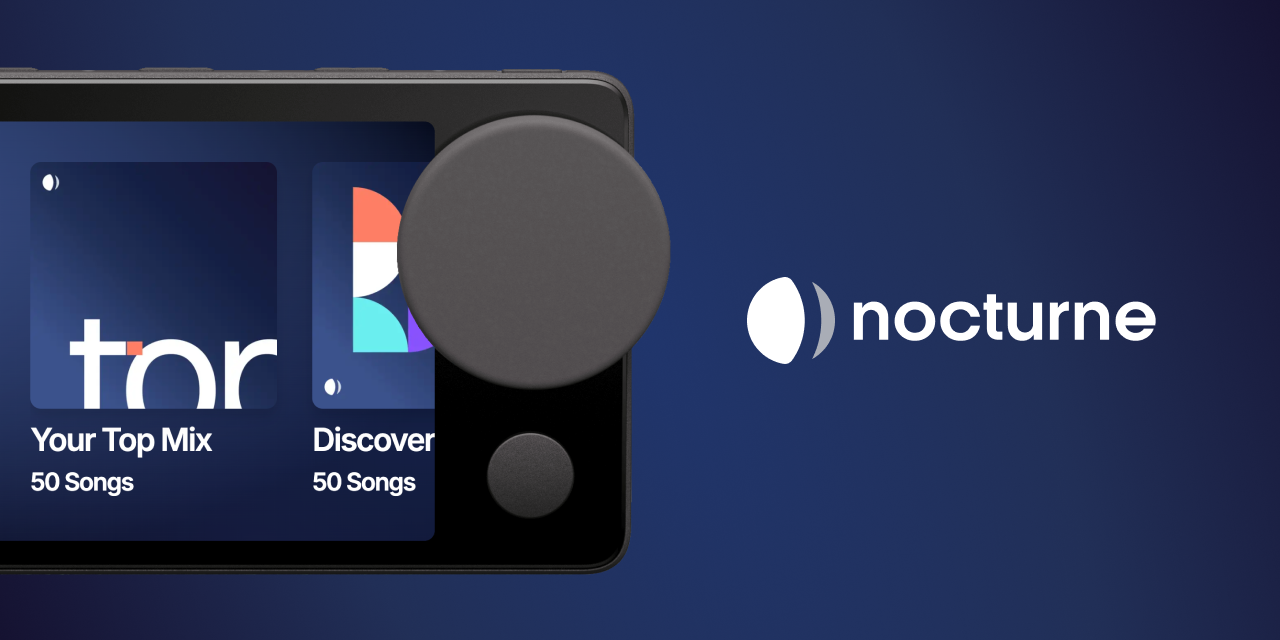
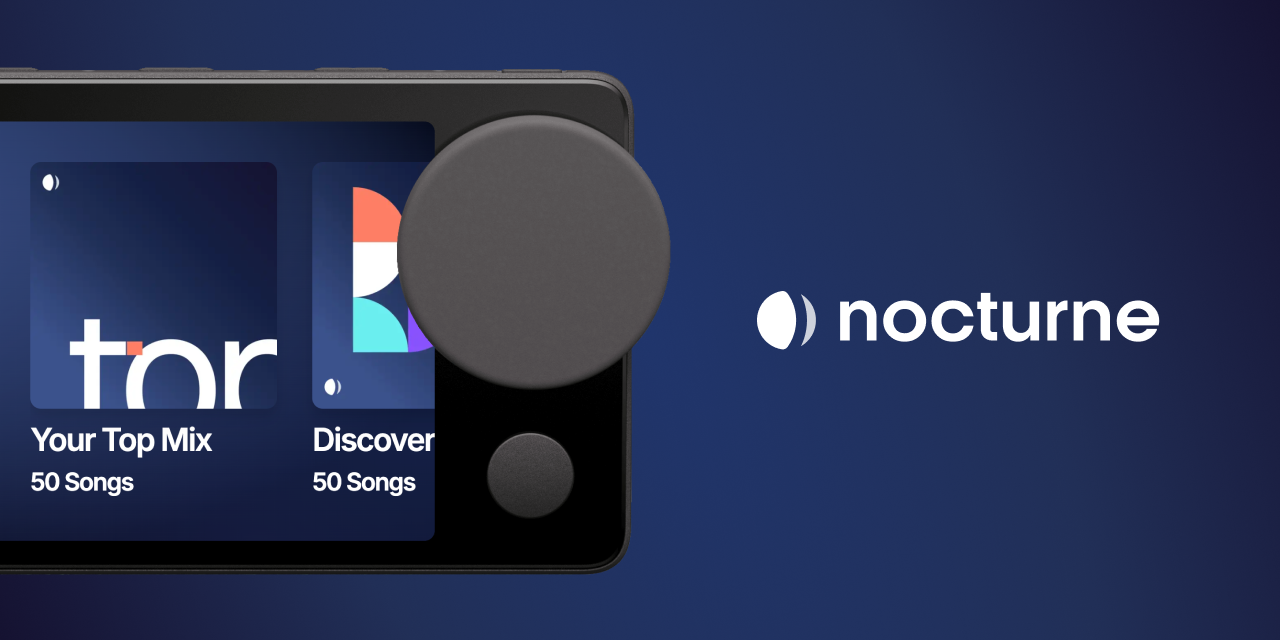
fix: use current assets
resolves #4

Changed region(s): [[0.5625, 0.4375, 0.9062, 0.5625]]

diff --git a/src/components/logo.tsx b/src/components/logo.tsx
@@ -3,24 +3,24 @@
 export function Logo({ className }: { className?: string }) {
   return (
     <svg
-      width="127"
-      height="34"
-      viewBox="0 0 1924 377"
+      width="165"
+      height="24"
+      viewBox="0 0 165 24"
       fill="none"
       xmlns="http://www.w3.org/2000/svg"
       className={className}
     >
       <path
-        d="M531.6 191.6V293H489V119.299H528.3V144.2H528.9C533.9 134.999 541 127.7 550.2 122.3C559.6 116.9 570.4 114.2 582.6 114.2C602.6 114.2 618.8 121.1 631.2 134.9C643.8 148.3 650.1 166 650.1 188V293H607.5V191.6C607.5 181 603.8 172 596.4 164.6C588.8 157 579.9 153.2 569.7 153.2C559.3 153.2 550.3 157 542.7 164.6C535.3 172 531.6 181 531.6 191.6ZM825.968 206C825.968 190 821.368 177.1 812.168 167.3C802.968 157.1 790.668 152 775.268 152C759.868 152 747.568 157.1 738.368 167.3C729.168 177.3 724.568 190.2 724.568 206C724.568 222 729.168 235 738.368 245C747.568 255.2 759.868 260.3 775.268 260.3C790.668 260.3 802.968 255.3 812.168 245.3C821.368 235.3 825.968 222.2 825.968 206ZM870.368 206C870.368 232 861.168 253.9 842.768 271.7C824.568 289.3 802.068 298.1 775.268 298.1C748.668 298.1 726.168 289.3 707.768 271.7C689.368 253.9 680.168 232 680.168 206C680.168 180.2 689.368 158.4 707.768 140.6C726.168 123 748.668 114.2 775.268 114.2C802.068 114.2 824.568 123 842.768 140.6C861.168 158.4 870.368 180.2 870.368 206ZM1080.33 185.3H1036.83C1032.43 174.7 1026.23 166.3 1018.23 160.1C1010.23 153.9 1000.63 150.8 989.428 150.8C973.828 150.8 961.428 156 952.228 166.4C943.028 176.8 938.428 190 938.428 206C938.428 222 943.028 235.2 952.228 245.6C961.428 256 973.828 261.2 989.428 261.2C1000.63 261.2 1010.23 258.1 1018.23 251.9C1026.23 245.7 1032.43 237.3 1036.83 226.7H1080.33C1076.13 249.1 1066.03 266.6 1050.03 279.2C1034.23 291.8 1014.03 298.1 989.428 298.1C961.628 298.1 938.828 289.4 921.028 272C903.228 254.6 894.328 232.6 894.328 206C894.328 179.4 903.228 157.4 921.028 139.999C938.828 122.6 961.628 113.9 989.428 113.9C1014.03 113.9 1034.23 120.2 1050.03 132.799C1065.83 145.4 1075.93 162.9 1080.33 185.3ZM1112.86 241.7V152.3H1096.96V119.299H1112.86V79.9995H1155.46V119.299H1185.16V152.3H1155.46V244.7C1155.46 247.7 1156.46 250.2 1158.46 252.2C1160.46 254.2 1162.86 255.2 1165.66 255.2H1185.16V293H1165.66C1149.86 293 1137.06 288.4 1127.26 279.2C1117.66 269.8 1112.86 257.3 1112.86 241.7ZM1329.08 220.7V119.299H1371.68V293H1332.38V268.1H1331.78C1326.78 277.3 1319.58 284.6 1310.18 290C1300.98 295.4 1290.28 298.1 1278.08 298.1C1258.08 298.1 1241.78 291.3 1229.18 277.7C1216.78 263.7 1210.58 245.9 1210.58 224.3V119.299H1253.18V220.7C1253.18 231.5 1256.88 240.6 1264.28 248C1271.68 255.4 1280.58 259.1 1290.98 259.1C1301.58 259.1 1310.58 255.4 1317.98 248C1325.38 240.6 1329.08 231.5 1329.08 220.7ZM1448.85 293H1407.75V119.299H1445.55V143.3H1446.15C1457.55 123.9 1473.35 114.2 1493.55 114.2H1497.15V157.4H1487.25C1477.05 157.4 1468.25 160.9 1460.85 167.9C1453.65 174.7 1449.65 183.2 1448.85 193.4V293ZM1567.24 191.6V293H1524.64V119.299H1563.94V144.2H1564.54C1569.54 134.999 1576.64 127.7 1585.84 122.3C1595.24 116.9 1606.04 114.2 1618.24 114.2C1638.24 114.2 1654.44 121.1 1666.84 134.9C1679.44 148.3 1685.74 166 1685.74 188V293H1643.14V191.6C1643.14 181 1639.44 172 1632.04 164.6C1624.44 157 1615.54 153.2 1605.34 153.2C1594.94 153.2 1585.94 157 1578.34 164.6C1570.94 172 1567.24 181 1567.24 191.6ZM1903.91 206C1903.91 211.6 1903.11 218.1 1901.51 225.5H1761.41C1763.81 235.3 1769.51 243.7 1778.51 250.7C1787.91 257.7 1798.41 261.2 1810.01 261.2C1818.21 261.2 1825.81 259.3 1832.81 255.5C1839.81 251.7 1845.21 246.8 1849.01 240.8H1895.21C1889.01 258.2 1878.11 272.1 1862.51 282.5C1847.11 292.9 1829.61 298.1 1810.01 298.1C1783.61 298.1 1761.31 289.3 1743.11 271.7C1724.91 254.1 1715.81 232.2 1715.81 206C1715.81 180.2 1725.01 158.4 1743.41 140.6C1761.61 123 1784.01 114.2 1810.61 114.2C1836.21 114.2 1858.21 123.1 1876.61 140.9C1894.81 158.5 1903.91 180.2 1903.91 206ZM1762.01 188.6H1858.31C1855.91 177.4 1850.41 168.2 1841.81 161C1833.41 153.8 1823.01 150.2 1810.61 150.2C1798.21 150.2 1787.61 153.9 1778.81 161.3C1770.01 168.5 1764.41 177.6 1762.01 188.6Z"
+        d="M38.0526 11.0033V20.3159H34.1118V4.36323H37.7473V6.65006H37.8028C38.2655 5.80511 38.922 5.13469 39.7732 4.63875C40.6426 4.14281 41.6417 3.89485 42.7704 3.89485C44.6207 3.89485 46.1193 4.52854 47.2662 5.79594C48.4318 7.02657 49.0146 8.65215 49.0146 10.6727V20.3159H45.0738V11.0033C45.0738 10.0298 44.7317 9.20319 44.047 8.5236C43.3441 7.82558 42.5206 7.47662 41.5771 7.47662C40.6149 7.47662 39.7823 7.82558 39.0794 8.5236C38.3947 9.20319 38.0526 10.0298 38.0526 11.0033ZM65.2837 12.3258C65.2837 10.8563 64.8578 9.67157 64.0071 8.77157C63.1559 7.8348 62.018 7.36641 60.5936 7.36641C59.1687 7.36641 58.0309 7.8348 57.1801 8.77157C56.3289 9.68996 55.9035 10.8747 55.9035 12.3258C55.9035 13.7952 56.3289 14.9891 57.1801 15.9076C58.0309 16.8443 59.1687 17.3127 60.5936 17.3127C62.018 17.3127 63.1559 16.8535 64.0071 15.9351C64.8578 15.0167 65.2837 13.8136 65.2837 12.3258ZM69.3909 12.3258C69.3909 14.7136 68.5397 16.7249 66.8378 18.3597C65.154 19.9761 63.0726 20.7843 60.5936 20.7843C58.1328 20.7843 56.0514 19.9761 54.349 18.3597C52.647 16.7249 51.7963 14.7136 51.7963 12.3258C51.7963 9.95631 52.647 7.95417 54.349 6.31943C56.0514 4.70303 58.1328 3.89485 60.5936 3.89485C63.0726 3.89485 65.154 4.70303 66.8378 6.31943C68.5397 7.95417 69.3909 9.95631 69.3909 12.3258ZM88.8133 10.4247H84.7893C84.3821 9.45116 83.8089 8.6797 83.0687 8.11032C82.3285 7.54089 81.4404 7.2562 80.4045 7.2562C78.9614 7.2562 77.8145 7.73376 76.9633 8.68891C76.1121 9.64402 75.6867 10.8563 75.6867 12.3258C75.6867 13.7952 76.1121 15.0075 76.9633 15.9627C77.8145 16.9178 78.9614 17.3954 80.4045 17.3954C81.4404 17.3954 82.3285 17.1106 83.0687 16.5413C83.8089 15.9718 84.3821 15.2004 84.7893 14.2269H88.8133C88.4248 16.2841 87.4903 17.8913 86.0104 19.0485C84.5486 20.2057 82.6802 20.7843 80.4045 20.7843C77.8327 20.7843 75.7236 19.9853 74.0771 18.3872C72.4306 16.7892 71.6072 14.7687 71.6072 12.3258C71.6072 9.88282 72.4306 7.86235 74.0771 6.26433C75.7236 4.6663 77.8327 3.86729 80.4045 3.86729C82.6802 3.86729 84.5486 4.44589 86.0104 5.60308C87.4721 6.76026 88.4062 8.36746 88.8133 10.4247ZM91.8227 15.6045V7.39396H90.3518V4.36323H91.8227V0.753906H95.7634V4.36323H98.5109V7.39396H95.7634V15.88C95.7634 16.1555 95.8558 16.3851 96.041 16.5688C96.2257 16.7525 96.4477 16.8443 96.707 16.8443H98.5109V20.3159H96.707C95.2453 20.3159 94.061 19.8934 93.1548 19.0485C92.2667 18.1852 91.8227 17.0372 91.8227 15.6045ZM111.825 13.6758V4.36323H115.766V20.3159H112.13V18.0291H112.075C111.612 18.874 110.946 19.5444 110.076 20.0404C109.225 20.5363 108.235 20.7843 107.107 20.7843C105.257 20.7843 103.749 20.1598 102.583 18.9107C101.436 17.625 100.863 15.9902 100.863 14.0065V4.36323H104.804V13.6758C104.804 14.6677 105.146 15.5034 105.83 16.1831C106.515 16.8627 107.338 17.2025 108.3 17.2025C109.281 17.2025 110.113 16.8627 110.798 16.1831C111.482 15.5034 111.825 14.6677 111.825 13.6758ZM122.904 20.3159H119.102V4.36323H122.599V6.5674H122.654C123.709 4.78568 125.17 3.89485 127.039 3.89485H127.372V7.86235H126.456C125.513 7.86235 124.699 8.18376 124.014 8.82667C123.348 9.45116 122.978 10.2318 122.904 11.1686V20.3159ZM133.856 11.0033V20.3159H129.916V4.36323H133.551V6.65006H133.607C134.069 5.80511 134.726 5.13469 135.577 4.63875C136.446 4.14281 137.445 3.89485 138.574 3.89485C140.424 3.89485 141.923 4.52854 143.07 5.79594C144.236 7.02657 144.818 8.65215 144.818 10.6727V20.3159H140.878V11.0033C140.878 10.0298 140.535 9.20319 139.851 8.5236C139.147 7.82558 138.324 7.47662 137.381 7.47662C136.419 7.47662 135.586 7.82558 134.883 8.5236C134.198 9.20319 133.856 10.0298 133.856 11.0033ZM165 12.3258C165 12.8401 164.926 13.437 164.778 14.1167H151.818C152.04 15.0167 152.567 15.7881 153.4 16.431C154.269 17.0739 155.24 17.3954 156.314 17.3954C157.072 17.3954 157.775 17.2208 158.423 16.8719C159.07 16.5229 159.57 16.0729 159.921 15.5218H164.195C163.621 17.1199 162.613 18.3964 161.17 19.3516C159.746 20.3067 158.127 20.7843 156.314 20.7843C153.871 20.7843 151.809 19.9761 150.125 18.3597C148.441 16.7433 147.6 14.732 147.6 12.3258C147.6 9.95631 148.451 7.95417 150.153 6.31943C151.836 4.70303 153.908 3.89485 156.369 3.89485C158.737 3.89485 160.773 4.7122 162.475 6.34698C164.158 7.96334 165 9.95631 165 12.3258ZM151.873 10.7278H160.782C160.56 9.69912 160.051 8.85422 159.255 8.19297C158.478 7.53172 157.516 7.2011 156.369 7.2011C155.222 7.2011 154.241 7.54089 153.427 8.22053C152.614 8.88178 152.095 9.71751 151.873 10.7278Z"
         fill="white"
       />
       <path
         opacity="0.8"
-        d="M281.378 20.7666C307.013 71.0277 321.468 127.942 321.468 188.233C321.468 248.524 307.012 305.439 281.377 355.7C340.72 323.429 381 260.535 381 188.233C381 115.932 340.721 53.0379 281.378 20.7666Z"
-        fill="#CBCBCB"
+        d="M18.022 1.32031C19.6055 4.51953 20.4985 8.14223 20.4985 11.9798C20.4985 15.8175 19.6055 19.4402 18.022 22.6394C21.6878 20.5853 24.1759 16.582 24.1759 11.9799C24.1759 7.37774 21.6878 3.37443 18.022 1.32031Z"
+        fill="#FAFAFA"
       />
       <path
-        d="M195.716 16.7716C187.1 4.5653 172.421 -2.0085 157.7 0.546205C68.1198 16.092 0 94.2073 0 188.233C0 282.258 68.1194 360.373 157.699 375.919C172.42 378.474 187.099 371.9 195.715 359.694C229.931 311.223 250.031 252.075 250.031 188.232C250.031 124.39 229.932 65.2424 195.716 16.7716Z"
+        d="M12.559 1.06727C12.006 0.290514 11.0641 -0.127812 10.1195 0.0347581C4.37119 1.02402 0 5.99493 0 11.9783C0 17.9616 4.37117 22.9325 10.1195 23.9218C11.0641 24.0844 12.006 23.666 12.5589 22.8893C14.7545 19.8048 16.0443 16.0409 16.0443 11.9782C16.0443 7.91561 14.7546 4.15173 12.559 1.06727Z"
         fill="white"
       />
     </svg>
@@ -30,24 +30,24 @@ export function Logo({ className }: { className?: string }) {
 export function LogoDark({ className }: { className?: string }) {
   return (
     <svg
-      width="127"
-      height="34"
-      viewBox="0 0 1924 377"
+      width="165"
+      height="24"
+      viewBox="0 0 165 24"
       fill="none"
       xmlns="http://www.w3.org/2000/svg"
       className={className}
     >
       <path
-        d="M531.6 191.6V293H489V119.299H528.3V144.2H528.9C533.9 134.999 541 127.7 550.2 122.3C559.6 116.9 570.4 114.2 582.6 114.2C602.6 114.2 618.8 121.1 631.2 134.9C643.8 148.3 650.1 166 650.1 188V293H607.5V191.6C607.5 181 603.8 172 596.4 164.6C588.8 157 579.9 153.2 569.7 153.2C559.3 153.2 550.3 157 542.7 164.6C535.3 172 531.6 181 531.6 191.6ZM825.968 206C825.968 190 821.368 177.1 812.168 167.3C802.968 157.1 790.668 152 775.268 152C759.868 152 747.568 157.1 738.368 167.3C729.168 177.3 724.568 190.2 724.568 206C724.568 222 729.168 235 738.368 245C747.568 255.2 759.868 260.3 775.268 260.3C790.668 260.3 802.968 255.3 812.168 245.3C821.368 235.3 825.968 222.2 825.968 206ZM870.368 206C870.368 232 861.168 253.9 842.768 271.7C824.568 289.3 802.068 298.1 775.268 298.1C748.668 298.1 726.168 289.3 707.768 271.7C689.368 253.9 680.168 232 680.168 206C680.168 180.2 689.368 158.4 707.768 140.6C726.168 123 748.668 114.2 775.268 114.2C802.068 114.2 824.568 123 842.768 140.6C861.168 158.4 870.368 180.2 870.368 206ZM1080.33 185.3H1036.83C1032.43 174.7 1026.23 166.3 1018.23 160.1C1010.23 153.9 1000.63 150.8 989.428 150.8C973.828 150.8 961.428 156 952.228 166.4C943.028 176.8 938.428 190 938.428 206C938.428 222 943.028 235.2 952.228 245.6C961.428 256 973.828 261.2 989.428 261.2C1000.63 261.2 1010.23 258.1 1018.23 251.9C1026.23 245.7 1032.43 237.3 1036.83 226.7H1080.33C1076.13 249.1 1066.03 266.6 1050.03 279.2C1034.23 291.8 1014.03 298.1 989.428 298.1C961.628 298.1 938.828 289.4 921.028 272C903.228 254.6 894.328 232.6 894.328 206C894.328 179.4 903.228 157.4 921.028 139.999C938.828 122.6 961.628 113.9 989.428 113.9C1014.03 113.9 1034.23 120.2 1050.03 132.799C1065.83 145.4 1075.93 162.9 1080.33 185.3ZM1112.86 241.7V152.3H1096.96V119.299H1112.86V79.9995H1155.46V119.299H1185.16V152.3H1155.46V244.7C1155.46 247.7 1156.46 250.2 1158.46 252.2C1160.46 254.2 1162.86 255.2 1165.66 255.2H1185.16V293H1165.66C1149.86 293 1137.06 288.4 1127.26 279.2C1117.66 269.8 1112.86 257.3 1112.86 241.7ZM1329.08 220.7V119.299H1371.68V293H1332.38V268.1H1331.78C1326.78 277.3 1319.58 284.6 1310.18 290C1300.98 295.4 1290.28 298.1 1278.08 298.1C1258.08 298.1 1241.78 291.3 1229.18 277.7C1216.78 263.7 1210.58 245.9 1210.58 224.3V119.299H1253.18V220.7C1253.18 231.5 1256.88 240.6 1264.28 248C1271.68 255.4 1280.58 259.1 1290.98 259.1C1301.58 259.1 1310.58 255.4 1317.98 248C1325.38 240.6 1329.08 231.5 1329.08 220.7ZM1448.85 293H1407.75V119.299H1445.55V143.3H1446.15C1457.55 123.9 1473.35 114.2 1493.55 114.2H1497.15V157.4H1487.25C1477.05 157.4 1468.25 160.9 1460.85 167.9C1453.65 174.7 1449.65 183.2 1448.85 193.4V293ZM1567.24 191.6V293H1524.64V119.299H1563.94V144.2H1564.54C1569.54 134.999 1576.64 127.7 1585.84 122.3C1595.24 116.9 1606.04 114.2 1618.24 114.2C1638.24 114.2 1654.44 121.1 1666.84 134.9C1679.44 148.3 1685.74 166 1685.74 188V293H1643.14V191.6C1643.14 181 1639.44 172 1632.04 164.6C1624.44 157 1615.54 153.2 1605.34 153.2C1594.94 153.2 1585.94 157 1578.34 164.6C1570.94 172 1567.24 181 1567.24 191.6ZM1903.91 206C1903.91 211.6 1903.11 218.1 1901.51 225.5H1761.41C1763.81 235.3 1769.51 243.7 1778.51 250.7C1787.91 257.7 1798.41 261.2 1810.01 261.2C1818.21 261.2 1825.81 259.3 1832.81 255.5C1839.81 251.7 1845.21 246.8 1849.01 240.8H1895.21C1889.01 258.2 1878.11 272.1 1862.51 282.5C1847.11 292.9 1829.61 298.1 1810.01 298.1C1783.61 298.1 1761.31 289.3 1743.11 271.7C1724.91 254.1 1715.81 232.2 1715.81 206C1715.81 180.2 1725.01 158.4 1743.41 140.6C1761.61 123 1784.01 114.2 1810.61 114.2C1836.21 114.2 1858.21 123.1 1876.61 140.9C1894.81 158.5 1903.91 180.2 1903.91 206ZM1762.01 188.6H1858.31C1855.91 177.4 1850.41 168.2 1841.81 161C1833.41 153.8 1823.01 150.2 1810.61 150.2C1798.21 150.2 1787.61 153.9 1778.81 161.3C1770.01 168.5 1764.41 177.6 1762.01 188.6Z"
+        d="M38.0526 11.0033V20.3159H34.1118V4.36323H37.7473V6.65006H37.8028C38.2655 5.80511 38.922 5.13469 39.7732 4.63875C40.6426 4.14281 41.6417 3.89485 42.7704 3.89485C44.6207 3.89485 46.1193 4.52854 47.2662 5.79594C48.4318 7.02657 49.0146 8.65215 49.0146 10.6727V20.3159H45.0738V11.0033C45.0738 10.0298 44.7317 9.20319 44.047 8.5236C43.3441 7.82558 42.5206 7.47662 41.5771 7.47662C40.6149 7.47662 39.7823 7.82558 39.0794 8.5236C38.3947 9.20319 38.0526 10.0298 38.0526 11.0033ZM65.2837 12.3258C65.2837 10.8563 64.8578 9.67157 64.0071 8.77157C63.1559 7.8348 62.018 7.36641 60.5936 7.36641C59.1687 7.36641 58.0309 7.8348 57.1801 8.77157C56.3289 9.68996 55.9035 10.8747 55.9035 12.3258C55.9035 13.7952 56.3289 14.9891 57.1801 15.9076C58.0309 16.8443 59.1687 17.3127 60.5936 17.3127C62.018 17.3127 63.1559 16.8535 64.0071 15.9351C64.8578 15.0167 65.2837 13.8136 65.2837 12.3258ZM69.3909 12.3258C69.3909 14.7136 68.5397 16.7249 66.8378 18.3597C65.154 19.9761 63.0726 20.7843 60.5936 20.7843C58.1328 20.7843 56.0514 19.9761 54.349 18.3597C52.647 16.7249 51.7963 14.7136 51.7963 12.3258C51.7963 9.95631 52.647 7.95417 54.349 6.31943C56.0514 4.70303 58.1328 3.89485 60.5936 3.89485C63.0726 3.89485 65.154 4.70303 66.8378 6.31943C68.5397 7.95417 69.3909 9.95631 69.3909 12.3258ZM88.8133 10.4247H84.7893C84.3821 9.45116 83.8089 8.6797 83.0687 8.11032C82.3285 7.54089 81.4404 7.2562 80.4045 7.2562C78.9614 7.2562 77.8145 7.73376 76.9633 8.68891C76.1121 9.64402 75.6867 10.8563 75.6867 12.3258C75.6867 13.7952 76.1121 15.0075 76.9633 15.9627C77.8145 16.9178 78.9614 17.3954 80.4045 17.3954C81.4404 17.3954 82.3285 17.1106 83.0687 16.5413C83.8089 15.9718 84.3821 15.2004 84.7893 14.2269H88.8133C88.4248 16.2841 87.4903 17.8913 86.0104 19.0485C84.5486 20.2057 82.6802 20.7843 80.4045 20.7843C77.8327 20.7843 75.7236 19.9853 74.0771 18.3872C72.4306 16.7892 71.6072 14.7687 71.6072 12.3258C71.6072 9.88282 72.4306 7.86235 74.0771 6.26433C75.7236 4.6663 77.8327 3.86729 80.4045 3.86729C82.6802 3.86729 84.5486 4.44589 86.0104 5.60308C87.4721 6.76026 88.4062 8.36746 88.8133 10.4247ZM91.8227 15.6045V7.39396H90.3518V4.36323H91.8227V0.753906H95.7634V4.36323H98.5109V7.39396H95.7634V15.88C95.7634 16.1555 95.8558 16.3851 96.041 16.5688C96.2257 16.7525 96.4477 16.8443 96.707 16.8443H98.5109V20.3159H96.707C95.2453 20.3159 94.061 19.8934 93.1548 19.0485C92.2667 18.1852 91.8227 17.0372 91.8227 15.6045ZM111.825 13.6758V4.36323H115.766V20.3159H112.13V18.0291H112.075C111.612 18.874 110.946 19.5444 110.076 20.0404C109.225 20.5363 108.235 20.7843 107.107 20.7843C105.257 20.7843 103.749 20.1598 102.583 18.9107C101.436 17.625 100.863 15.9902 100.863 14.0065V4.36323H104.804V13.6758C104.804 14.6677 105.146 15.5034 105.83 16.1831C106.515 16.8627 107.338 17.2025 108.3 17.2025C109.281 17.2025 110.113 16.8627 110.798 16.1831C111.482 15.5034 111.825 14.6677 111.825 13.6758ZM122.904 20.3159H119.102V4.36323H122.599V6.5674H122.654C123.709 4.78568 125.17 3.89485 127.039 3.89485H127.372V7.86235H126.456C125.513 7.86235 124.699 8.18376 124.014 8.82667C123.348 9.45116 122.978 10.2318 122.904 11.1686V20.3159ZM133.856 11.0033V20.3159H129.916V4.36323H133.551V6.65006H133.607C134.069 5.80511 134.726 5.13469 135.577 4.63875C136.446 4.14281 137.445 3.89485 138.574 3.89485C140.424 3.89485 141.923 4.52854 143.07 5.79594C144.236 7.02657 144.818 8.65215 144.818 10.6727V20.3159H140.878V11.0033C140.878 10.0298 140.535 9.20319 139.851 8.5236C139.147 7.82558 138.324 7.47662 137.381 7.47662C136.419 7.47662 135.586 7.82558 134.883 8.5236C134.198 9.20319 133.856 10.0298 133.856 11.0033ZM165 12.3258C165 12.8401 164.926 13.437 164.778 14.1167H151.818C152.04 15.0167 152.567 15.7881 153.4 16.431C154.269 17.0739 155.24 17.3954 156.314 17.3954C157.072 17.3954 157.775 17.2208 158.423 16.8719C159.07 16.5229 159.57 16.0729 159.921 15.5218H164.195C163.621 17.1199 162.613 18.3964 161.17 19.3516C159.746 20.3067 158.127 20.7843 156.314 20.7843C153.871 20.7843 151.809 19.9761 150.125 18.3597C148.441 16.7433 147.6 14.732 147.6 12.3258C147.6 9.95631 148.451 7.95417 150.153 6.31943C151.836 4.70303 153.908 3.89485 156.369 3.89485C158.737 3.89485 160.773 4.7122 162.475 6.34698C164.158 7.96334 165 9.95631 165 12.3258ZM151.873 10.7278H160.782C160.56 9.69912 160.051 8.85422 159.255 8.19297C158.478 7.53172 157.516 7.2011 156.369 7.2011C155.222 7.2011 154.241 7.54089 153.427 8.22053C152.614 8.88178 152.095 9.71751 151.873 10.7278Z"
         fill="black"
       />
       <path
         opacity="0.8"
-        d="M281.378 20.7666C307.013 71.0277 321.468 127.942 321.468 188.233C321.468 248.524 307.012 305.439 281.377 355.701C340.72 323.429 381 260.535 381 188.233C381 115.932 340.721 53.0378 281.378 20.7666Z"
+        d="M18.022 1.32031C19.6055 4.51953 20.4985 8.14223 20.4985 11.9798C20.4985 15.8175 19.6055 19.4402 18.022 22.6394C21.6878 20.5853 24.1759 16.582 24.1759 11.9799C24.1759 7.37774 21.6878 3.37443 18.022 1.32031Z"
         fill="#0F0F0F"
       />
       <path
-        d="M195.716 16.7716C187.1 4.5653 172.421 -2.0085 157.7 0.546205C68.1198 16.092 0 94.2073 0 188.233C0 282.258 68.1194 360.373 157.699 375.919C172.42 378.474 187.099 371.9 195.715 359.694C229.931 311.223 250.031 252.075 250.031 188.232C250.031 124.39 229.932 65.2424 195.716 16.7716Z"
+        d="M12.559 1.06727C12.006 0.290514 11.0641 -0.127812 10.1195 0.0347581C4.37119 1.02402 0 5.99493 0 11.9783C0 17.9616 4.37117 22.9325 10.1195 23.9218C11.0641 24.0844 12.006 23.666 12.5589 22.8893C14.7545 19.8048 16.0443 16.0409 16.0443 11.9782C16.0443 7.91561 14.7546 4.15173 12.559 1.06727Z"
         fill="black"
       />
     </svg>
